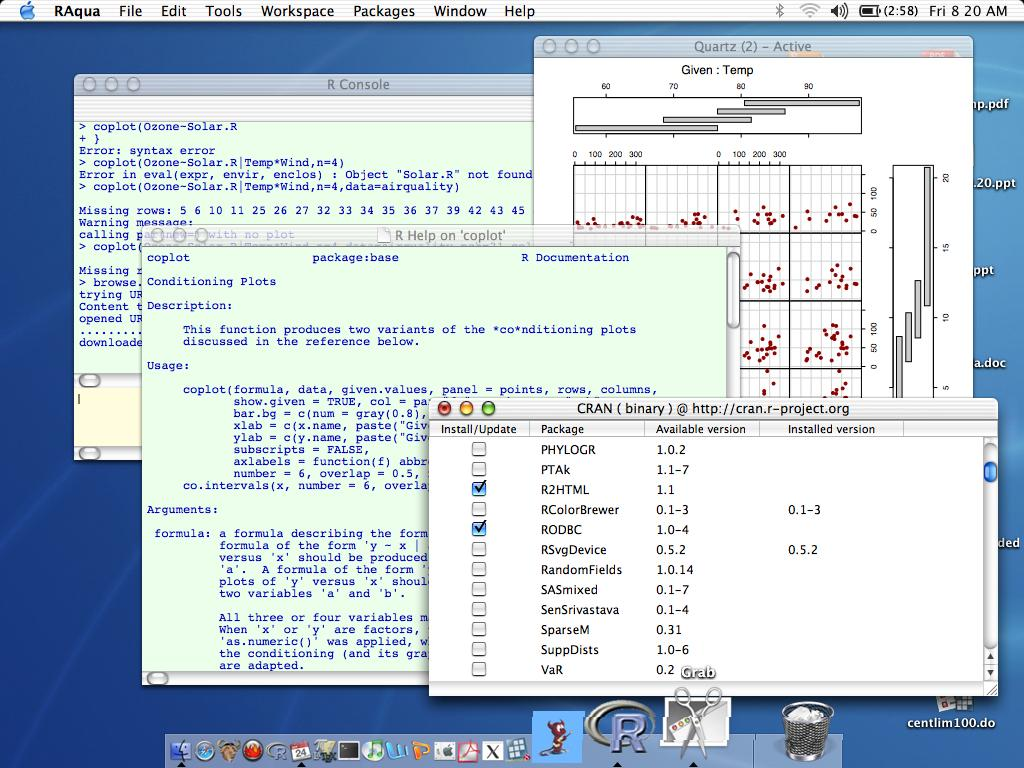
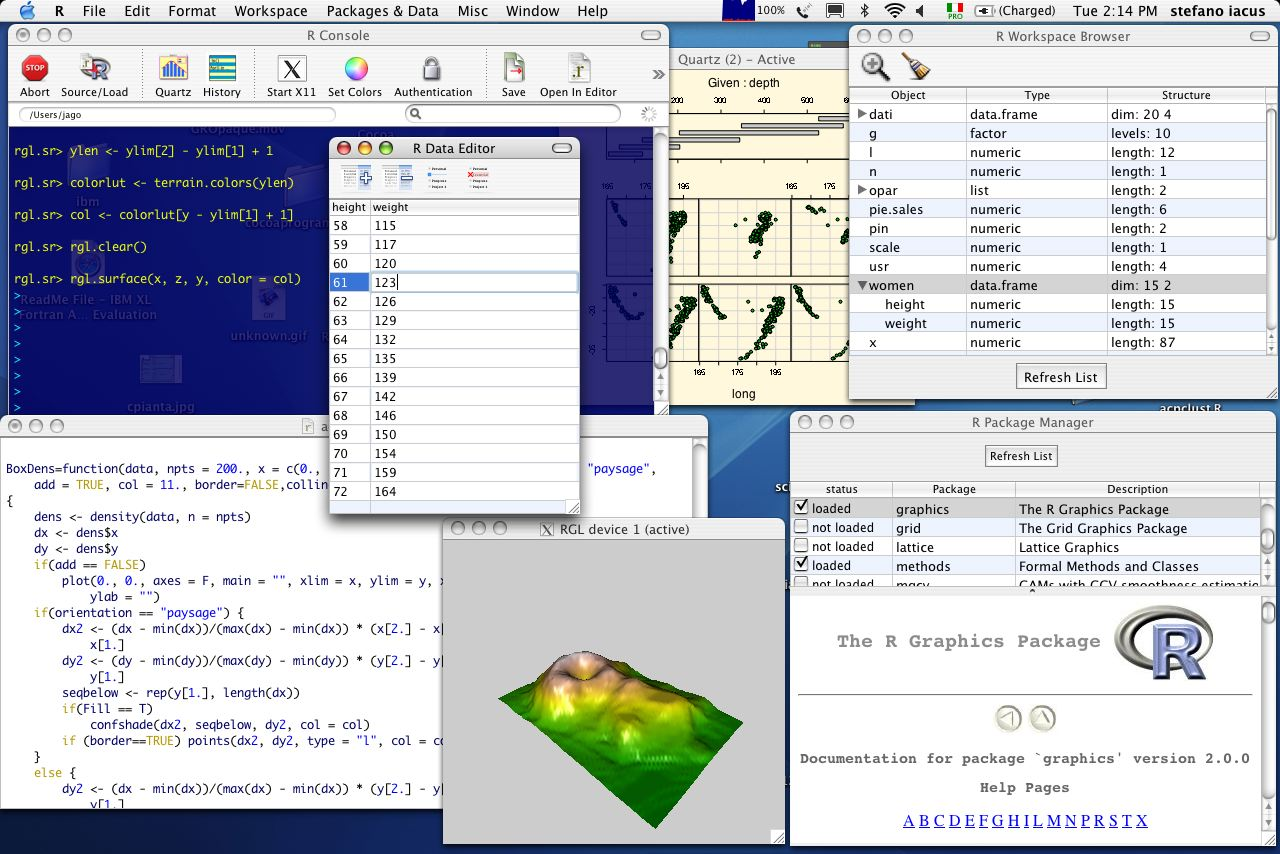
updated screenshots and links for the new R for Mac OS X GUI
git-svn-id: https://svn.r-project.org/R-project-web/trunk@157 1153ebb8-59df-0310-8e53-ad3d7429db60

diff --git a/links.html b/links.html
@@ -14,7 +14,7 @@ general interest to users of R. Please let us know if you think your
 site should be added to the list.
 <ul>
   <li><a
-      href="http://www.apple.com/downloads/macosx/math_science/rformacintosh.html">Apple</a>
+      href="http://www.apple.com/downloads/macosx/math_science/rformacosx.html">Apple</a>
   <li><a href="http://www.fsf.org" target="_top">Free Software Foundation</a>
   <li><a href="http://freshmeat.net" target="_top">Freshmeat</a>
   <li><a href="http://www.mathtools.net" target="_top">Mathtools.net</a>
@@ -26,6 +26,6 @@ site should be added to the list.
 <hr>
 <address><a href="mailto:wwwadmin@cran.R-project.org">wwwadmin@cran.R-project.org</a></address>
 <!-- hhmts start -->
-Last modified: Aug 2004
+Last modified: Oct 2004
 <!-- hhmts end -->
 </body> </html>
